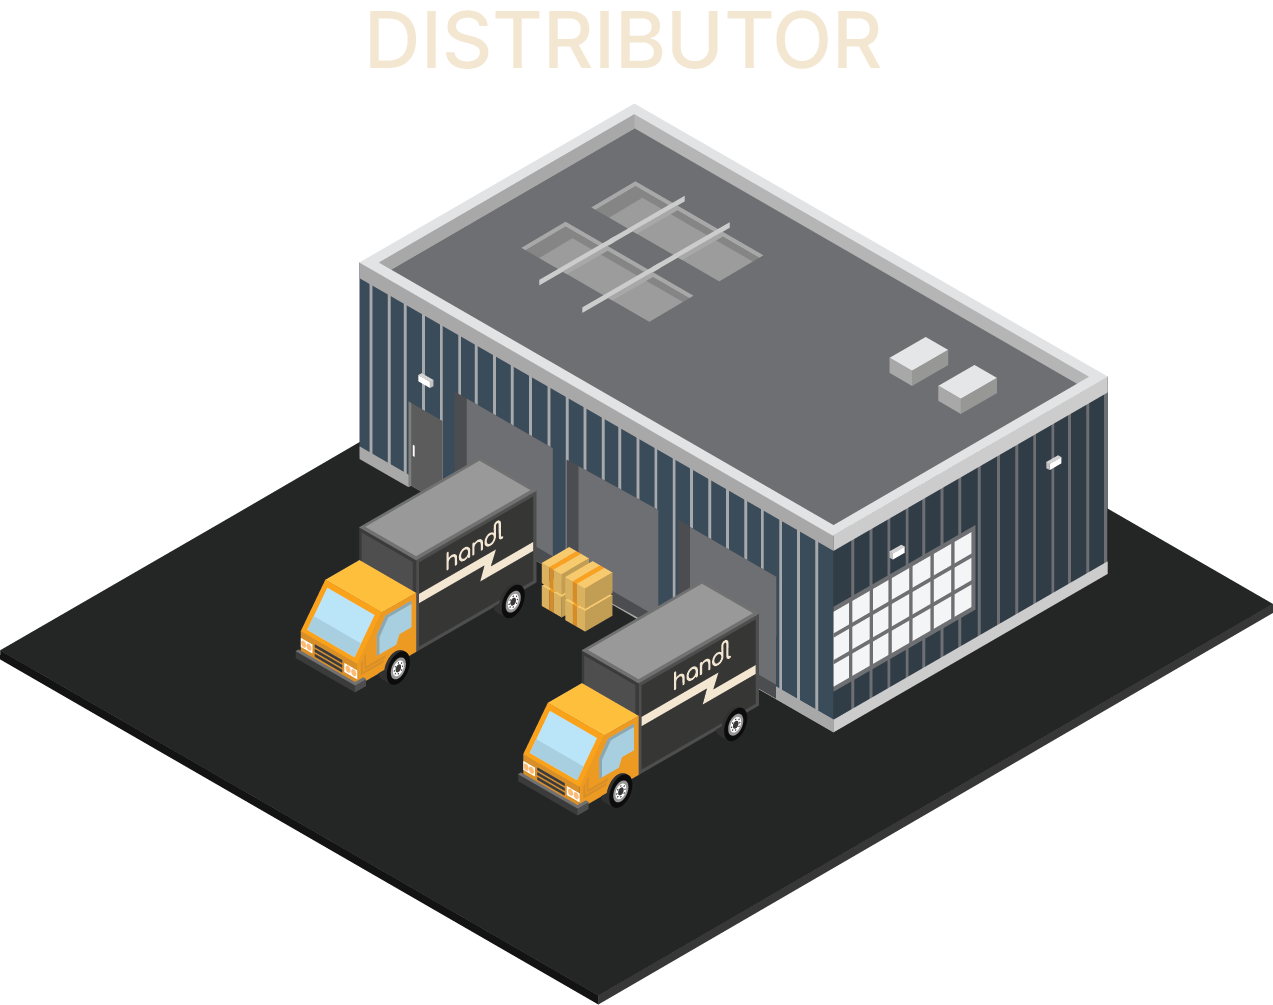
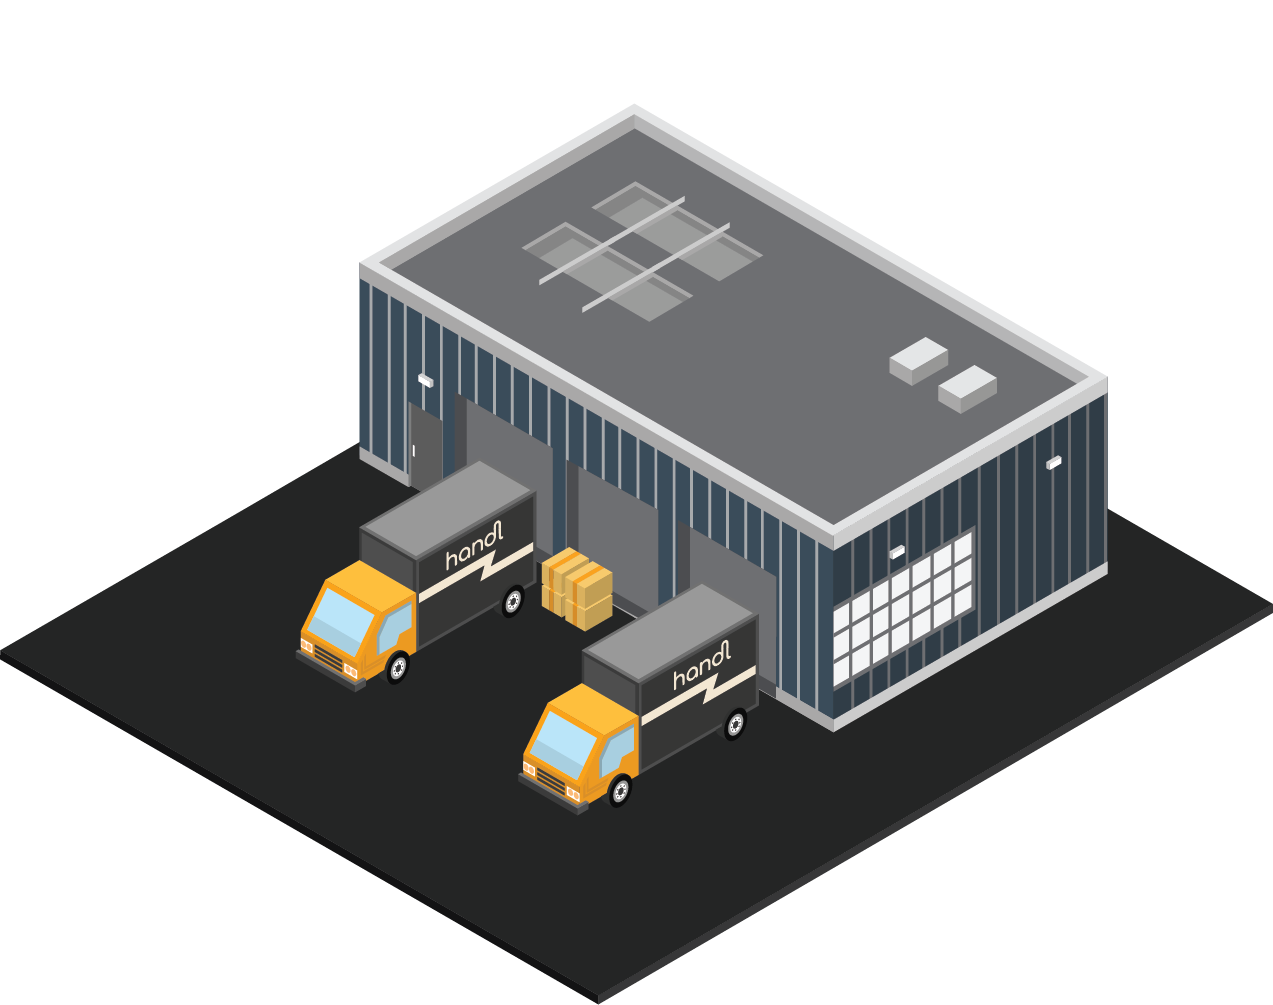
Modified static files and enhanced styling.

Changed region(s): [[0.2757, 0.0, 0.7046, 0.0925]]

diff --git a/frontend/src/components/Banner/Banner.tsx b/frontend/src/components/Banner/Banner.tsx
@@ -1,7 +1,8 @@
 import { useMobile } from "../../hooks/useMobile";
-import { Box, Typography } from "@mui/material";
+import { Box, Container, Typography } from "@mui/material";
 import png from '../../static/Banner Square.png';
 import svg from '../../static/Banner All Horizontal.svg';
+import BannerSquare from '../../static/Banner_Square.png';
 import ManufacturerSingle from '../../static/Manufacturer_Single.png';
 import DistributorSingle from '../../static/Distributor_Single.png';
 import WholesalerSingle from '../../static/Wholesaler_Single.png';
@@ -9,6 +10,13 @@ import RetailerSingle from '../../static/Retailer_Single.png';
 
 function Banner(): JSX.Element {
     let isMobile: boolean = useMobile();
+
+    const singleBannerImages = [
+        ManufacturerSingle,
+        DistributorSingle,
+        WholesalerSingle,
+        RetailerSingle
+    ];
 
     const styles = {
         banner: {
@@ -58,44 +66,31 @@ function Banner(): JSX.Element {
     const mobileBanner = () => (
         <>
             <Box sx={styles.bannerInfo} aria-roledescription="Home Screen Banner Content">
-                <Typography fontSize={'3.5rem'}>
-                    Sourcing made easy.
+                <Typography fontSize={'1.5rem'} fontWeight={600}>
+                    Source faster with the best B2B directory
                 </Typography>
-                <Typography variant={ isMobile ? "subtitle2" : "subtitle1" } pr={'1rem'}>
-                    Sourcing sucks. So we built Handl to help connect manufacturers, distributors, wholesalers, and retailers together without friction and wondering how to get in touch.
-                    <br/>
-                    <br/>
-                    Handl is the world's fastest growing B2B directory for manufacturers, distributors, wholesalers, and retailers. 
-                </Typography>
+                <br/>
+                <br/>
+                <Typography>Connect with Manufactuers, Distributors, Wholesalers, and Retailers</Typography>
             </Box>
             <Box sx={styles.imageBox}>
-                <img src={png} alt="Handl Banner" width={'100%'} style={{ padding: '10px' }}/>
+                <img src={BannerSquare} alt="Handl Banner" width={'100%'} style={{ padding: '10px' }}/>
             </Box>
         </>
     );
 
     const desktopBanner = () => (
-        <>
+        <Container sx={{ display: 'flex', alignItems: 'center' }}>
             <Box sx={styles.bannerInfo} aria-roledescription="Home Screen Banner Content">
-                <Typography fontSize={'3.5rem'}>
-                    Sourcing made easy.
+                <Typography fontSize={'2.5rem'} justifySelf={'baseline'} fontWeight={600} marginBottom={'1rem'}>
+                    Source faster with the best B2B directory
                 </Typography>
-                <Typography variant={ isMobile ? "subtitle2" : "subtitle1" } pr={'1rem'}>
-                    Sourcing sucks. So we built Handl to help connect manufacturers, distributors, wholesalers, and retailers together without friction and wondering how to get in touch.
-                    <br/>
-                    <br/>
-                    Handl is the world's fastest growing B2B directory for manufacturers, distributors, wholesalers, and retailers. 
-                </Typography>
+                <Typography>Connect with Manufactuers, Distributors, Wholesalers, and Retailers</Typography>
             </Box>
-            <Box sx={{ display: 'flex', flexDirection: 'column', width: '25%', alignItems: 'center' }}>
-                <img src={ManufacturerSingle} width={'75%'} style={{ padding: '10px' }}/>
-                <img src={DistributorSingle} width={'75%'} style={{ padding: '10px' }}/>
+            <Box sx={styles.imageBox}>
+                <img src={singleBannerImages[Math.floor(Math.random() * 4)]} alt="Handl Banner" width={'70%'} style={{ padding: '10px', paddingBottom: '23px' }}/>
             </Box>
-            <Box sx={{ display: 'flex', flexDirection: 'column', width: '25%', alignItems: 'center' }}>
-                <img src={WholesalerSingle} width={'75%'} style={{ padding: '10px' }}/>
-                <img src={RetailerSingle} width={'75%'} style={{ padding: '10px' }}/>
-            </Box>
-        </>
+        </Container>
     );
     
     return (

diff --git a/frontend/src/components/Header/Header.tsx b/frontend/src/components/Header/Header.tsx
@@ -1,6 +1,6 @@
 import React from "react";
 import { SxProps, Grid, Box, Link } from "@mui/material";
-import svg from '../../static/5_SVG-cropped.svg';
+import goldLogoTransparent from '../../static/Gold_Logo_Transparent_Image.png';
 import { useMobile } from "../../hooks/useMobile";
 import { CategoriesMenu } from "../CategoriesMenu/CategoriesMenu";
 import { UserHeaderMenu } from "../UserHeaderMenu/UserHeaderMenu";
@@ -13,7 +13,6 @@ const headerStyles: React.CSSProperties = {
     width: '100%',
     background: "#242425",
     color: '#F2E5D1',
-    borderBottom: '.5px solid #F2E5D1',
     paddingBottom: '.625rem',
 };
 
@@ -43,7 +42,7 @@ function Header(): JSX.Element {
                         </MobileDrawer>
                         <Grid item sx={{display: 'flex', alignItems: 'center', justifyContent: 'baseline', marginLeft: isMobile ? '-2.5rem' : '2rem'}}>
                             <a href={location.origin} target="_self">
-                                <img src={svg} alt="Handl Logo" width={"140px"} height={"75px"} style={{padding: '10px'}}/>
+                                <img src={goldLogoTransparent} alt="Handl Logo" width={"140px"} height={"60px"} style={{padding: '10px'}}/>
                             </a>
                         </Grid>
                         <UserHeaderMenu sx={dropdownButtonSx} />
@@ -55,7 +54,7 @@ function Header(): JSX.Element {
             <Box sx={{ display: 'flex', justifyContent: 'space-between', alignItems: 'center' }}>
                 <Box sx={{ display: 'flex', alignItems: 'center', paddingLeft: '1rem' }}>
                     <a href={location.origin} target="_self">
-                        <img src={svg} alt="Handl Logo" width={"140px"} height={"75px"} style={{padding: '10px'}}/>
+                        <img src={goldLogoTransparent} alt="Handl Logo" width={"140px"} height={"60px"} style={{padding: '10px'}}/>
                     </a>
                     <CategoriesMenu sx={dropdownButtonSx} />
                     <Link href={location.origin + "/about-us"} target="_self" underline="none" color='#F2E5D1' sx={{ fontSize: '16px', fontWeight: 600 }}>About</Link>

diff --git a/frontend/src/components/Footer/Footer.tsx b/frontend/src/components/Footer/Footer.tsx
@@ -1,5 +1,5 @@
 import React from "react";
-import svg from '../../static/5_SVG-cropped.svg';
+import goldLogoTransparent from '../../static/Gold_Logo_Transparent_Image.png';
 import { LinkedIn, Reddit } from "@mui/icons-material";
 import { Box, Link, SxProps, Typography } from "@mui/material";
 
@@ -26,7 +26,7 @@ function Footer(): JSX.Element {
             color: '#F2E5D1'
         }}>
             <a href={location.origin} target="_self">
-                <img src={svg} alt="Handl Logo" width={"100px"} height={"70px"}/>
+                <img src={goldLogoTransparent} alt="Handl Logo" width={"110px"} height={"40px"}/>
             </a>
             <Box sx={{display: 'flex', justifyContent: 'center'}}>
                 <Typography m={1}>
